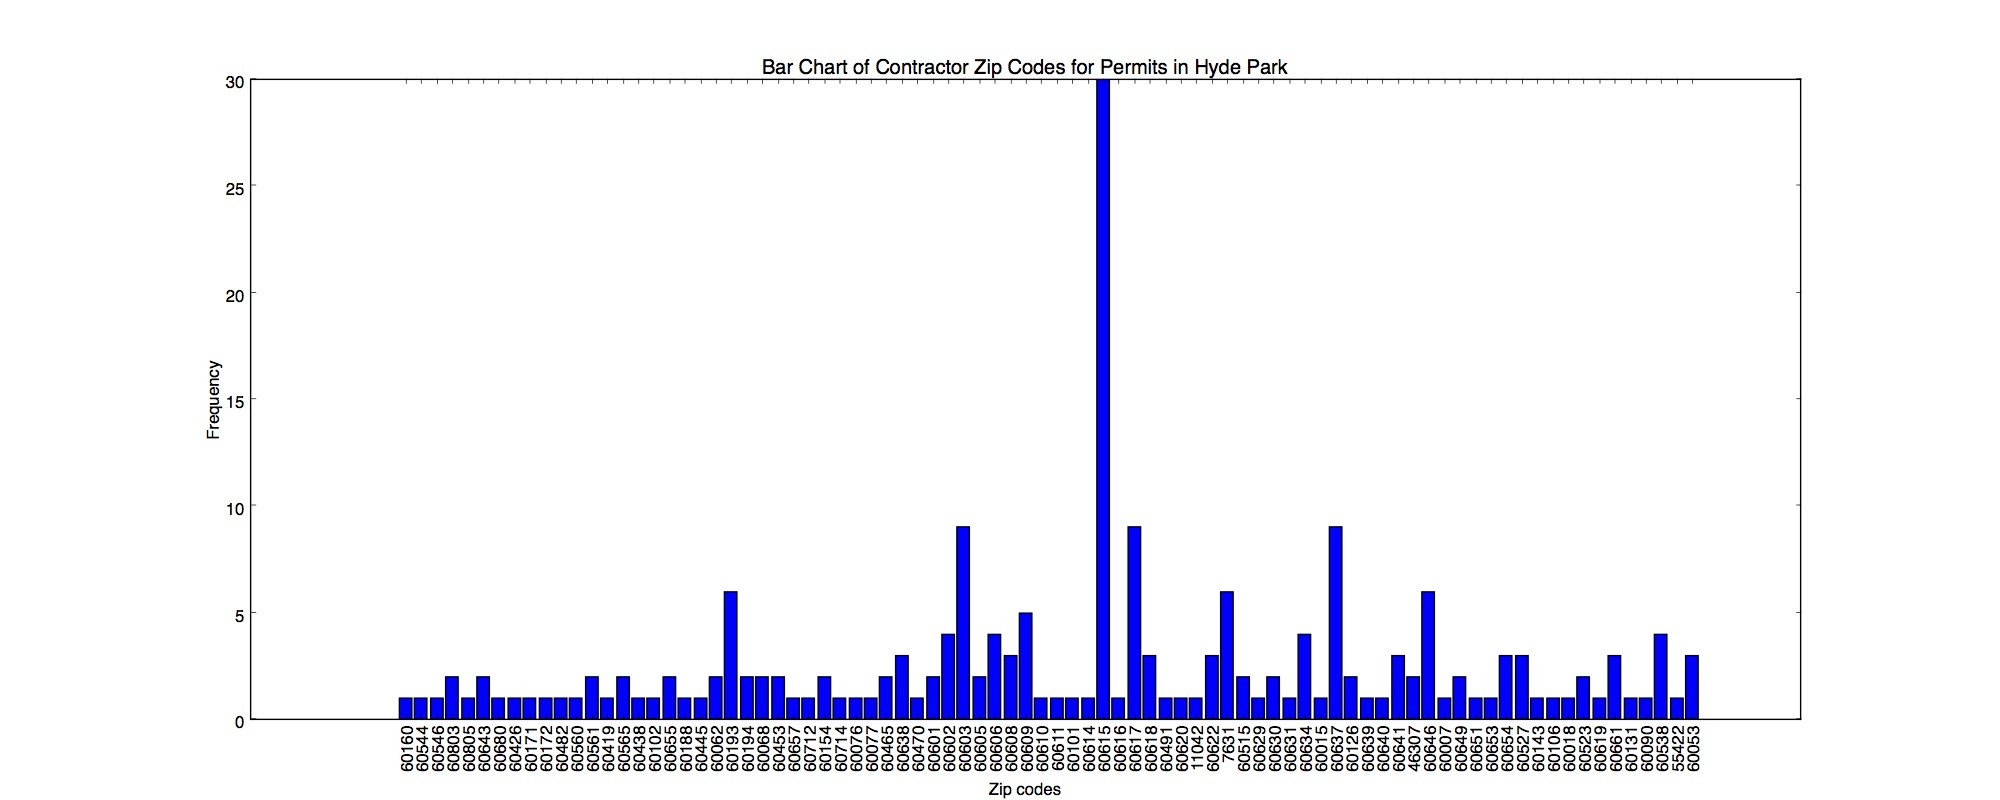
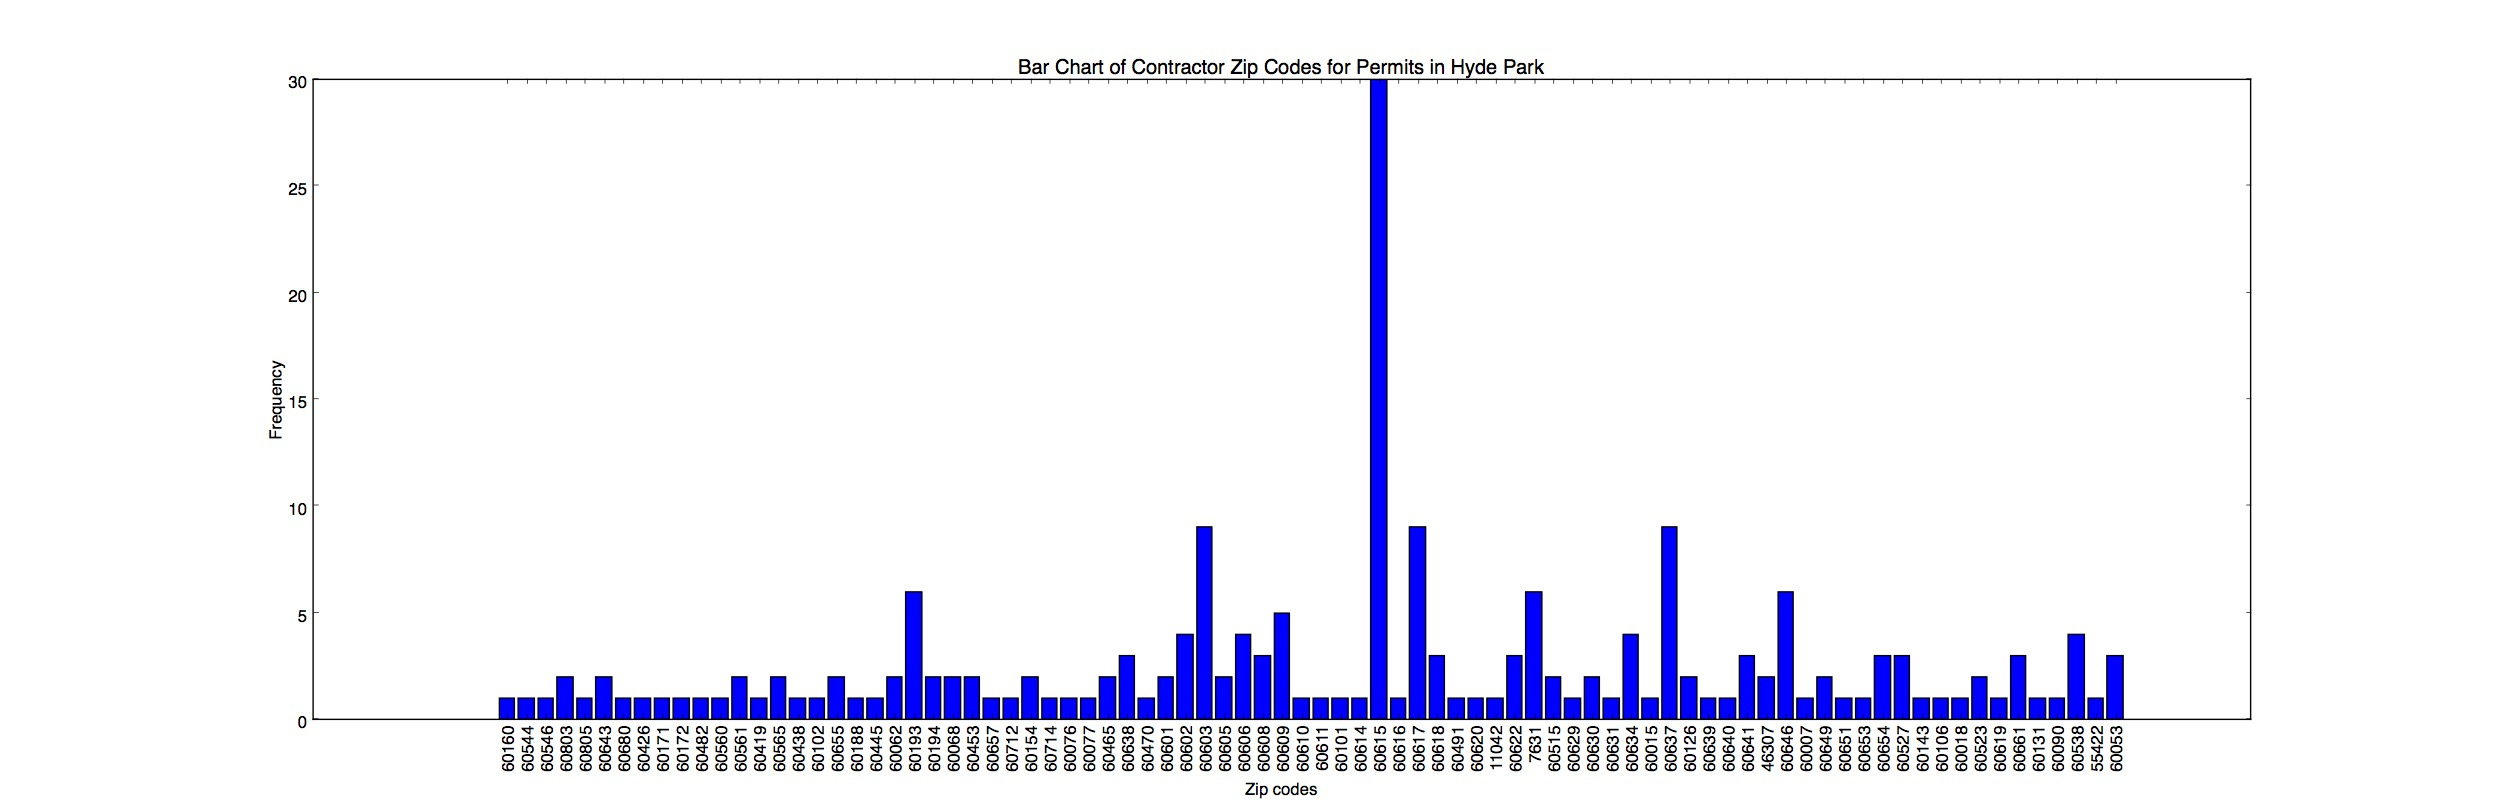
adding comments

diff --git a/assignment4/parse.py b/assignment4/parse.py
@@ -38,8 +38,10 @@ def zip_code_barchart(neighborhood):
 	'''Creates .jpg bar chart of contractor zip codes for permits in Hyde Park.'''
 	counts = {}
 	for permit in range(len(neighborhood)):
-		for number in range(21, 100, 7):
-			if re.match('\d{5}', neighborhood[permit][number]):
+		for number in range(28, 130, 7): 
+		#contractor zip codes start at column 29 (=index 28) and end at column 127 (=index 128). 
+		#zip codes occur every 7th index
+			if re.match('\d{5}', neighborhood[permit][number]): #make sure it's a valid zip code
 				if int(neighborhood[permit][number][0:5]) in counts:
 					counts[int(neighborhood[permit][number][0:5])] += 1
 				else:
